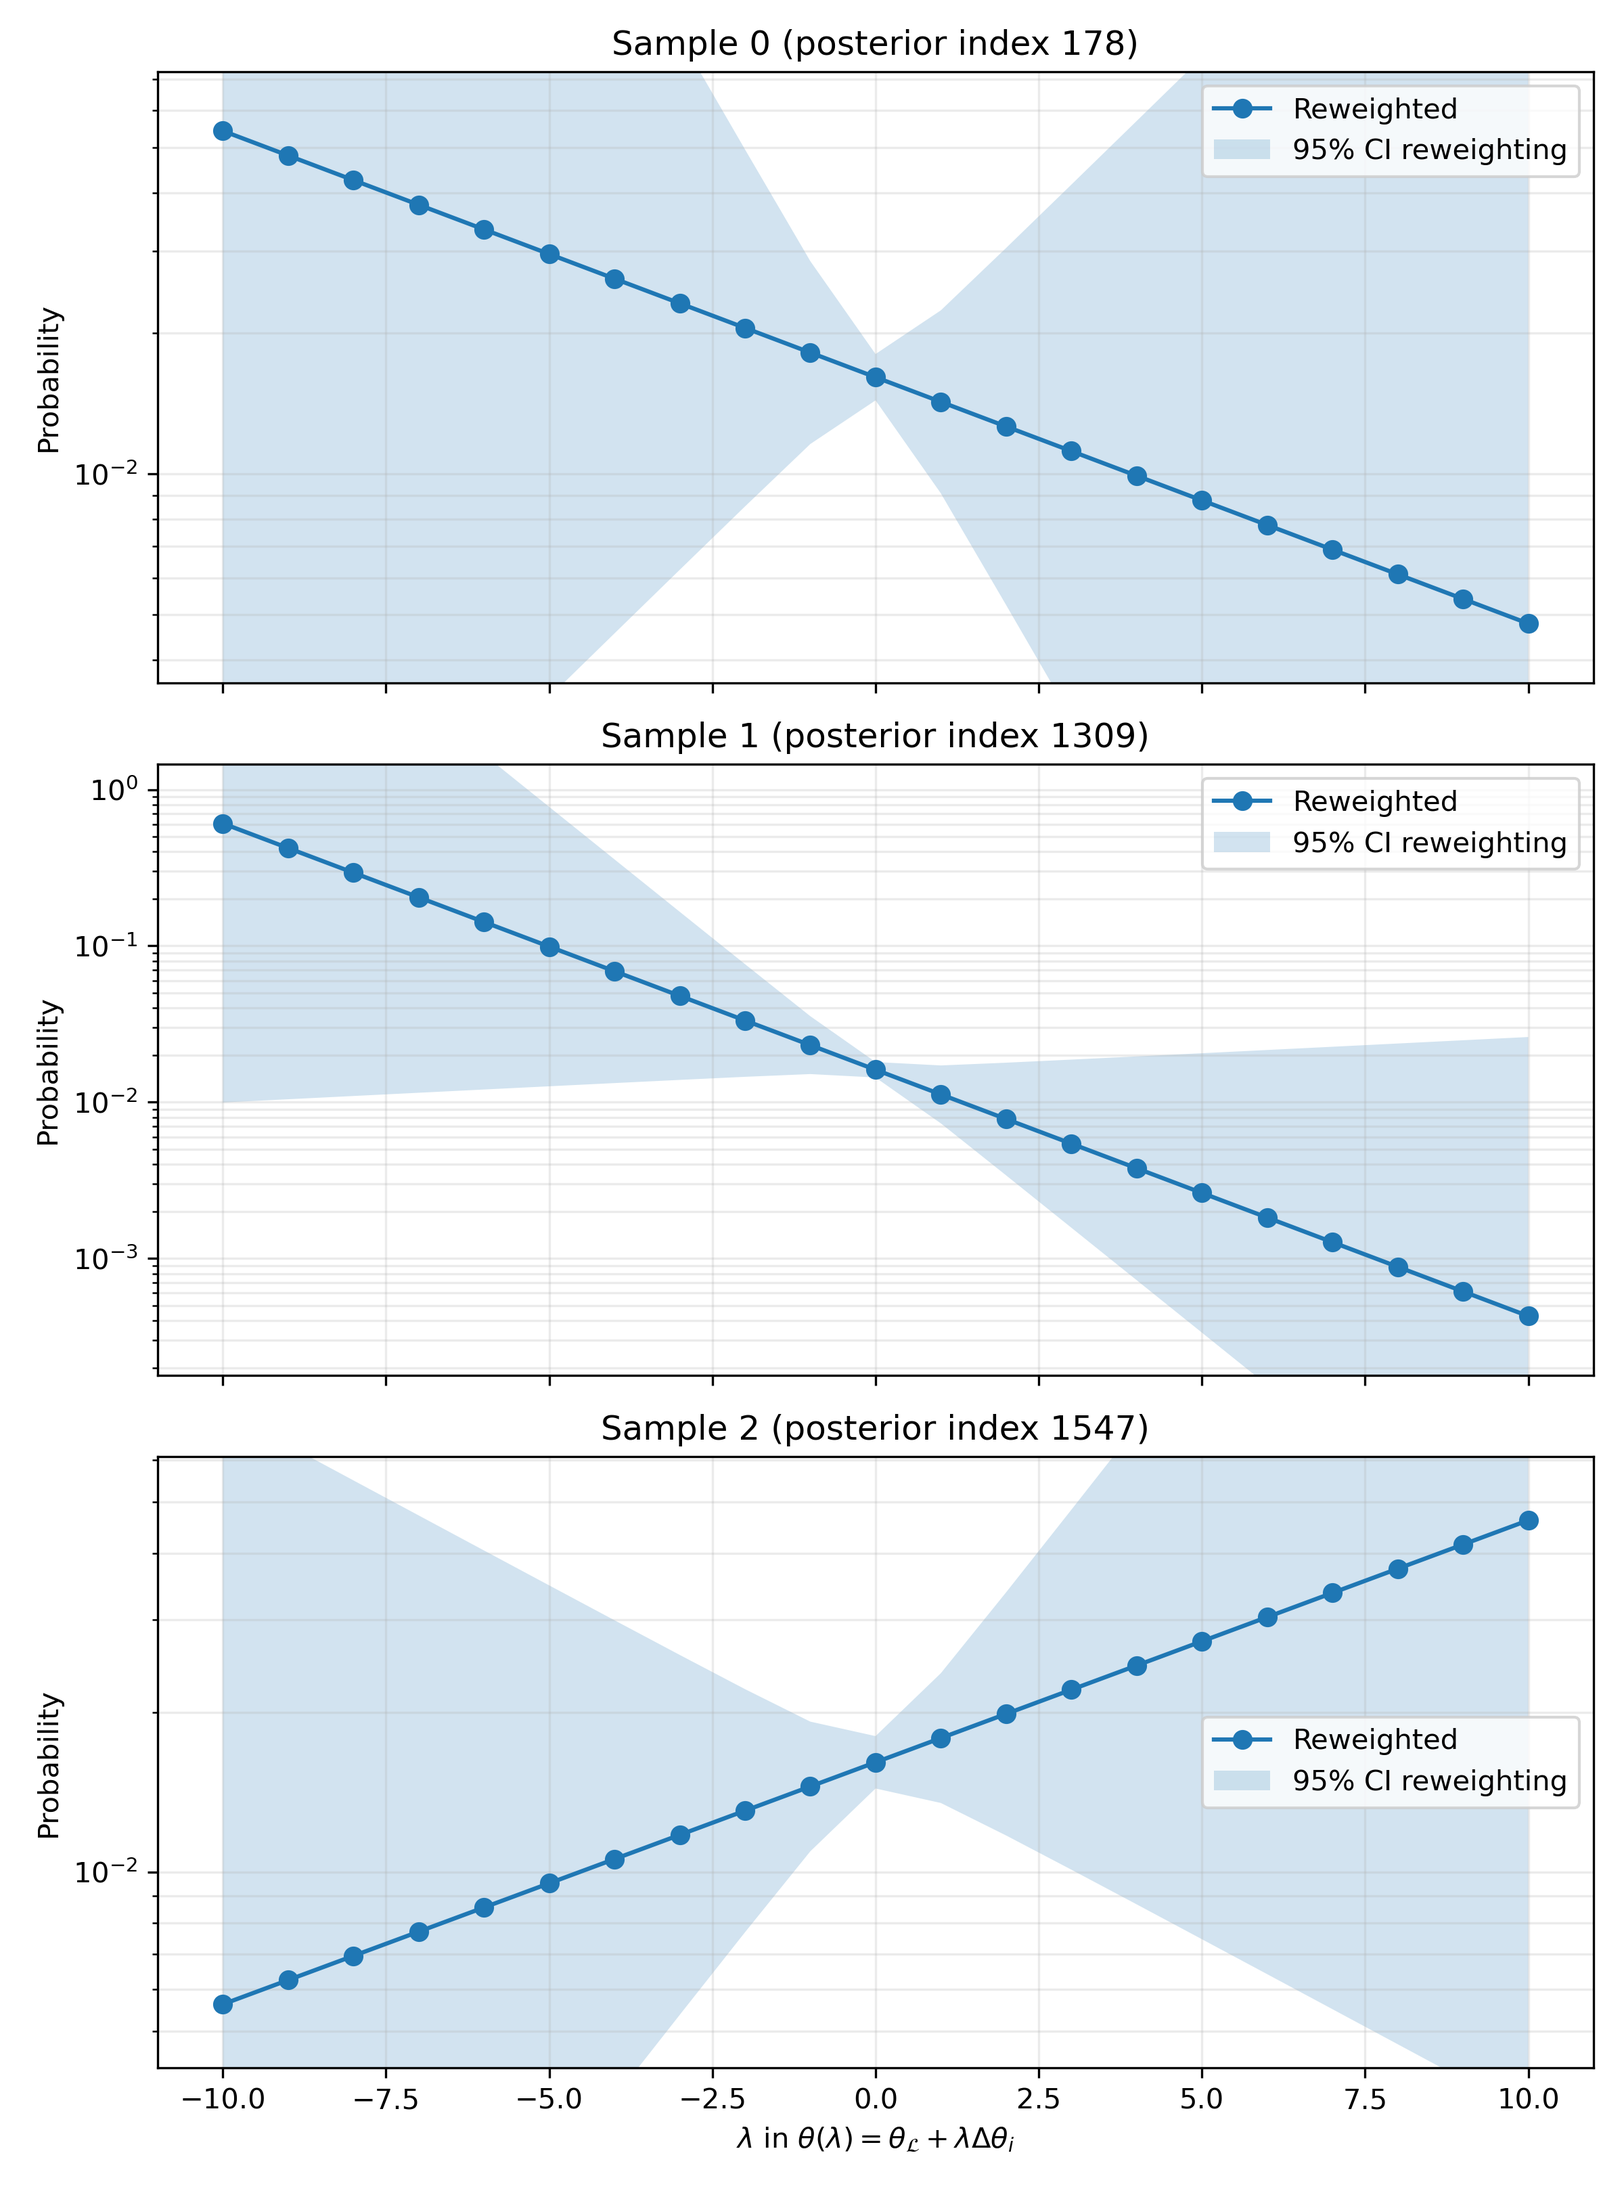
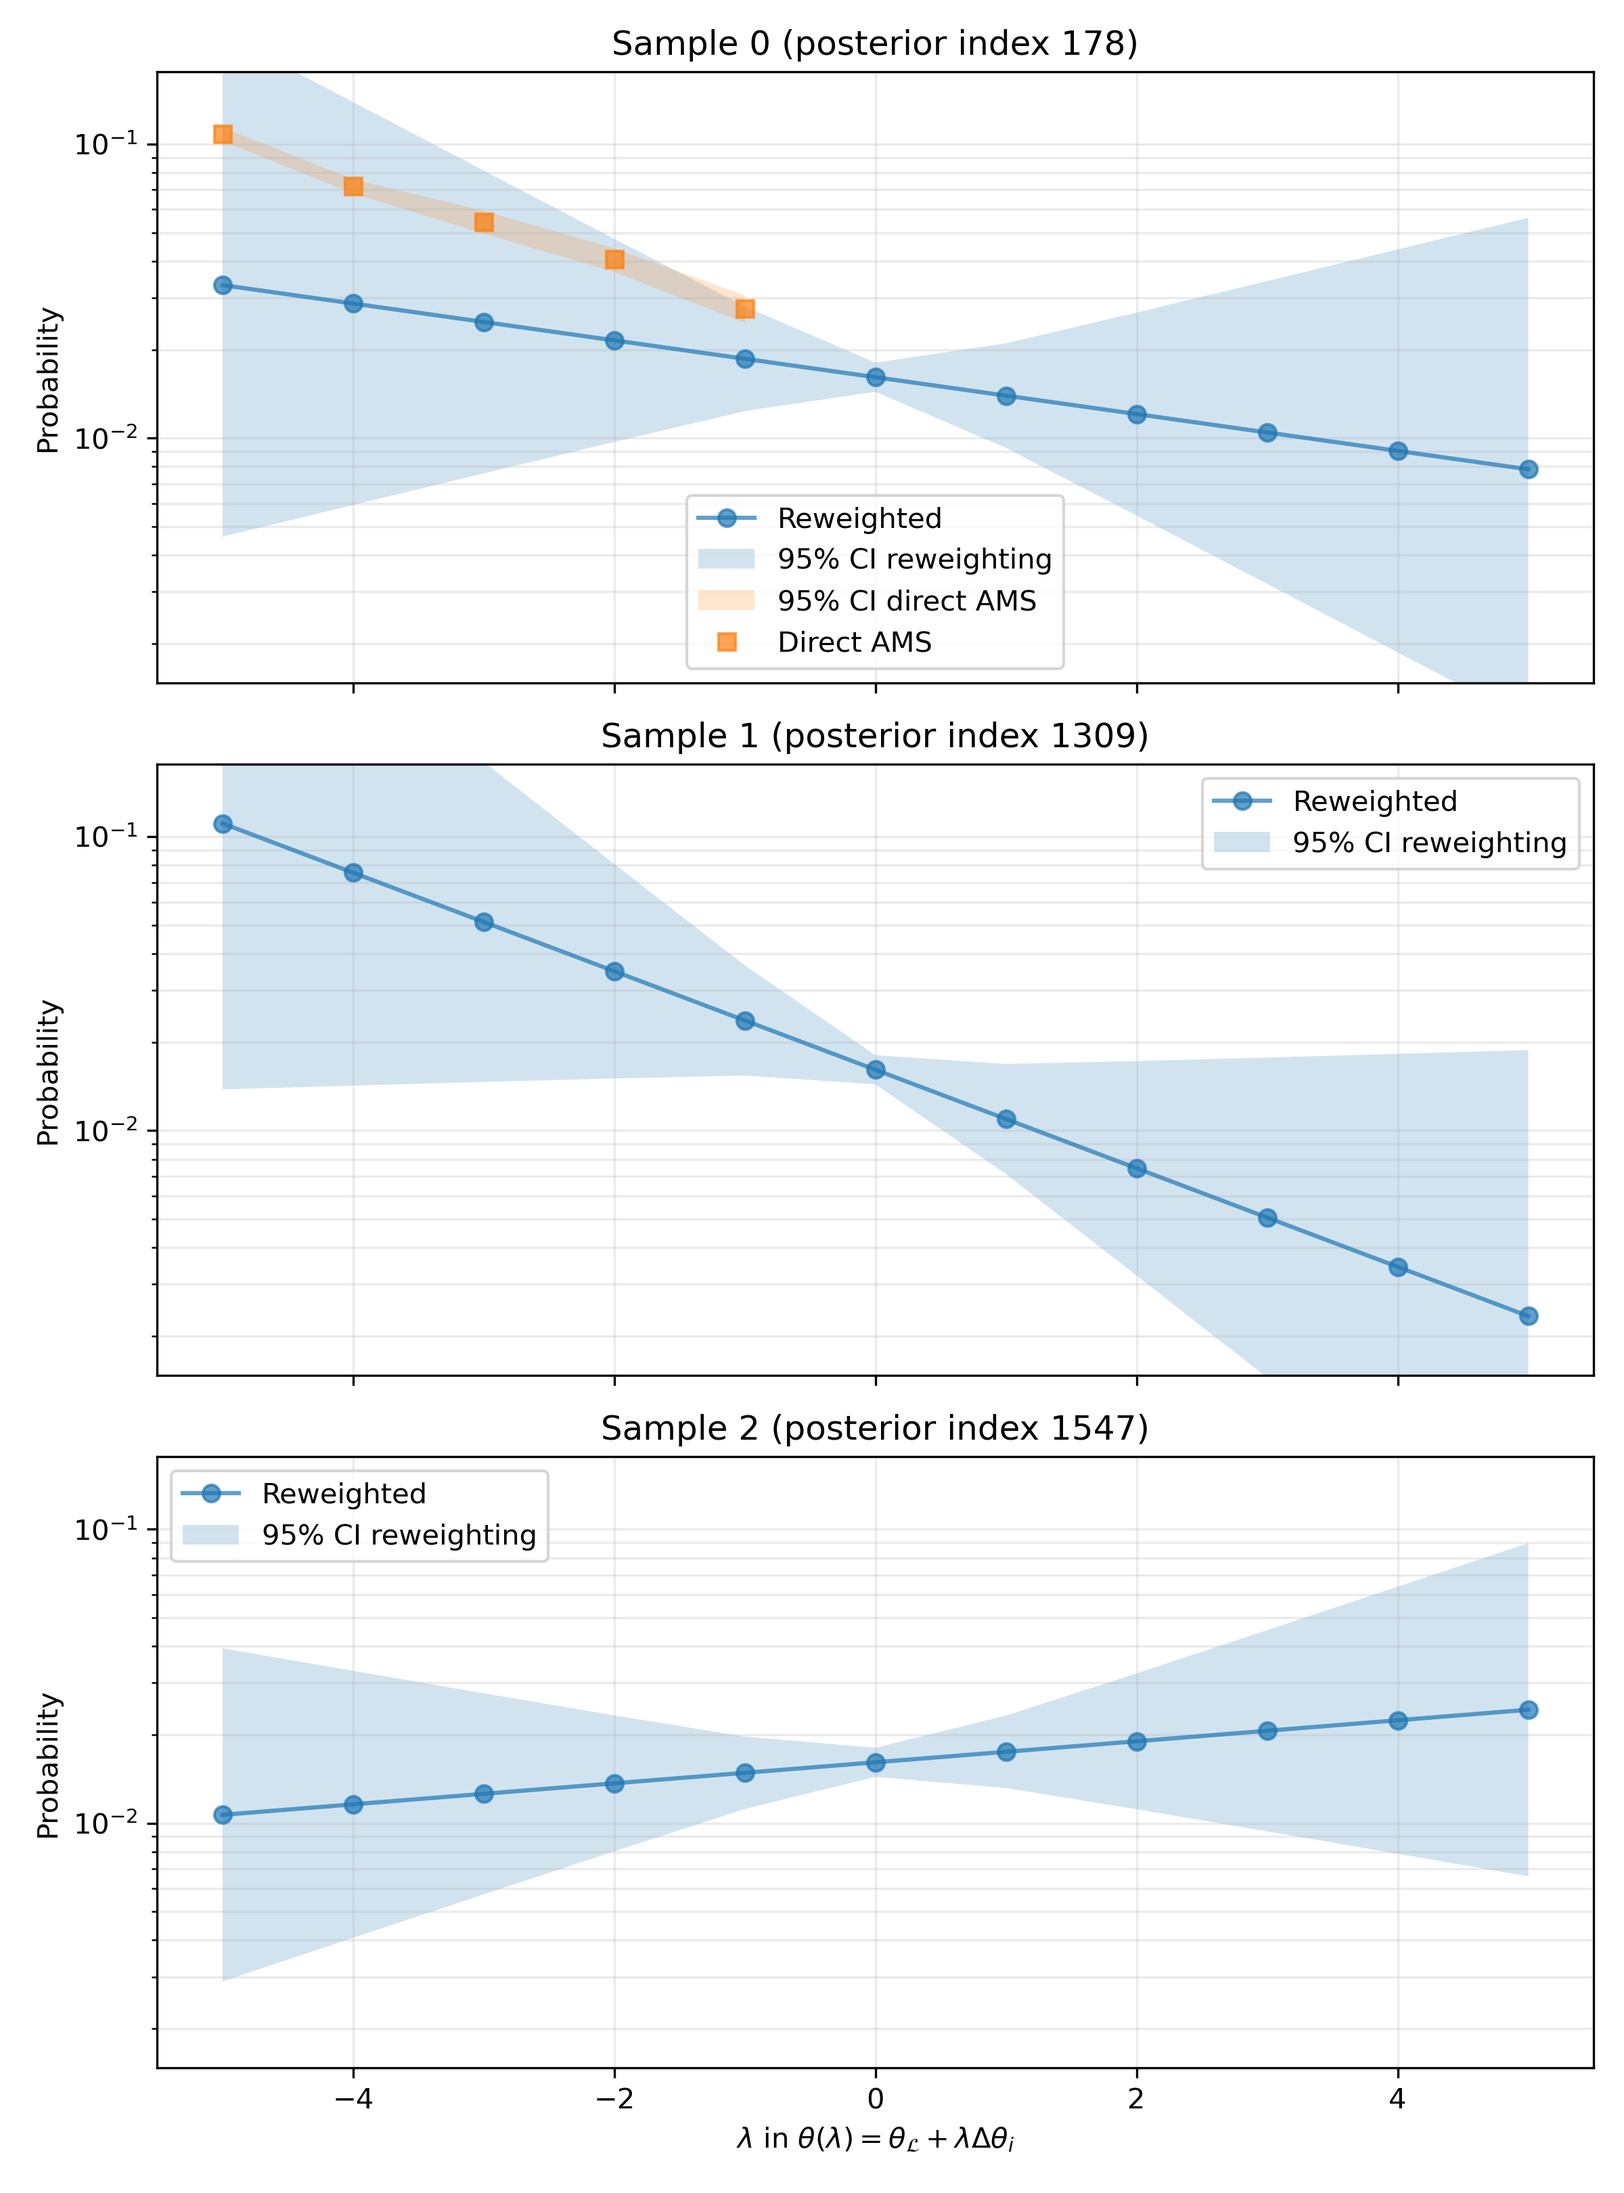
.

diff --git a/scripts/AMS_butane/theta_lambda_mp0a/create_lambda_folders.py b/scripts/AMS_butane/theta_lambda_mp0a/create_lambda_folders.py
@@ -12,11 +12,10 @@ import numpy as np
 ROOT = Path(__file__).resolve().parent
 BASE_RUN = ROOT.parent / "ams_runs_mp0a_500"
 POSTERIOR_PATH = ROOT.parent / "ams_runs_mp0a_300/pops/binary_data/posterior_samples_mp0a.npy"
-THETA_L_PATH = ROOT.parent / "ams_runs_mp0a_300/pops/binary_data/w_corrector_mp0a.npy"
 RESULTS_DIR = ROOT / "results"
 N_AMS = 70
 DEFAULT_N_SAMPLES = 3
-LAMBDAS = np.arange(-10, 11, dtype=int)
+LAMBDAS = np.arange(-5, 6, dtype=int)
 
 
 def lambda_name(value):
@@ -47,7 +46,7 @@ def make_run_template():
         "posterior_samples = np.load(\n"
         "    '../../../../ams_runs_mp0a_300/pops/binary_data/posterior_samples_mp0a.npy'\n"
         ")\n"
-        "theta_l = np.load('../../../../ams_runs_mp0a_300/pops/binary_data/w_corrector_mp0a.npy')\n"
+        "theta_l = np.zeros(posterior_samples.shape[0], dtype=posterior_samples.dtype)\n"
         "delta_theta = posterior_samples[:, theta_index] - theta_l\n"
         "theta = theta_l + lambda_value * delta_theta\n"
         "calc = MACELinear(model_path=mace_model_path, device=device, "
@@ -105,11 +104,96 @@ print(f"Prepared {{n_ams}} AMS directories for theta index {{theta_index}}, lamb
 '''
 
 
+def rebase_existing_runs_at_zero():
+    """Set existing theta-lambda folders to the zero-corrector reference."""
+    posterior = np.load(POSTERIOR_PATH)
+    indices_path = RESULTS_DIR / "theta_indices.npy"
+    if not indices_path.is_file():
+        raise SystemExit(f"Indices posterior introuvables: {indices_path}")
+    indices = np.load(indices_path)
+    if indices.ndim != 1 or len(indices) != DEFAULT_N_SAMPLES:
+        raise SystemExit(f"Il faut exactement {DEFAULT_N_SAMPLES} indices dans {indices_path}.")
+    if np.any(indices < 0) or np.any(indices >= posterior.shape[1]):
+        raise SystemExit("Un theta_index est hors limites pour le posterior.")
+
+    theta_l = np.zeros(posterior.shape[0], dtype=posterior.dtype)
+    directions = posterior[:, indices].T
+    np.save(RESULTS_DIR / "theta_l.npy", theta_l)
+    np.save(RESULTS_DIR / "directions.npy", directions)
+
+    lambdas_path = RESULTS_DIR / "lambdas.npy"
+    old_lambdas = np.load(lambdas_path) if lambdas_path.exists() else LAMBDAS
+    keep_lambda = np.isin(old_lambdas, LAMBDAS)
+    if not np.all(np.isin(LAMBDAS, old_lambdas)):
+        raise SystemExit(f"Impossible de retrouver toutes les valeurs {LAMBDAS} dans {old_lambdas}.")
+    for filename in ("probs.npy", "available.npy"):
+        array_path = RESULTS_DIR / filename
+        if not array_path.exists():
+            continue
+        values = np.load(array_path)
+        if values.ndim < 2 or values.shape[1] != len(old_lambdas):
+            raise SystemExit(
+                f"Forme inattendue pour {array_path}: {values.shape}; "
+                f"l'axe lambda devrait avoir {len(old_lambdas)} valeurs."
+            )
+        np.save(array_path, values[:, keep_lambda, ...])
+    np.save(lambdas_path, LAMBDAS)
+
+    run_files = list(ROOT.glob("sample_*/lambda_*/run_ams.py"))
+    run_files.extend(ROOT.glob("sample_*/lambda_*/ams_*/run_ams.py"))
+    for path in run_files:
+        text = path.read_text()
+        text = text.replace(
+            "../../../ams_runs_mp0a_", "../../../../ams_runs_mp0a_"
+        ).replace("../../../models/", "../../../../models/")
+        text = re.sub(
+            r"(?m)^\s*theta_l\s*=\s*np\.load\(.*w_corrector_mp0a\.npy[\"']\)\s*$",
+            "theta_l = np.zeros(posterior_samples.shape[0], dtype=posterior_samples.dtype)",
+            text,
+        )
+        text = re.sub(
+            r"(?m)^\s*theta_l = np\.zeros\(posterior_samples\.shape\[0\], dtype=posterior_samples\.dtype\)\s*$",
+            "theta_l = np.zeros(posterior_samples.shape[0], dtype=posterior_samples.dtype)",
+            text,
+        )
+        path.write_text(text)
+
+    make_files = list(ROOT.glob("sample_*/lambda_*/make_input_files.py"))
+    for path in make_files:
+        text = path.read_text()
+        text = text.replace(
+            "../../../ams_runs_mp0a_", "../../../../ams_runs_mp0a_"
+        ).replace("../../../models/", "../../../../models/")
+        path.write_text(text)
+
+    for pattern in (
+        "sample_*/lambda_*/job_topaze",
+        "sample_*/lambda_*/run_all_topaze",
+        "sample_*/lambda_*/ams_*/job_topaze",
+    ):
+        for path in ROOT.glob(pattern):
+            text = path.read_text().replace("#MSUB -q a100", "#MSUB -q milan", 1)
+            path.write_text(text)
+
+    print(f"Reference zero appliquee aux {len(run_files)} scripts run_ams.py.")
+    print(f"Directions recalculees pour les indices {', '.join(map(str, indices))}.")
+    print(f"Plage lambda active: {LAMBDAS[0]} a {LAMBDAS[-1]} ({len(LAMBDAS)} valeurs).")
+
+
 def main():
     parser = argparse.ArgumentParser(description=__doc__)
     parser.add_argument("--seed", type=int, default=None, help="seed for selecting posterior samples")
     parser.add_argument("--n-samples", type=int, default=DEFAULT_N_SAMPLES)
+    parser.add_argument(
+        "--rebase-zero-reference",
+        action="store_true",
+        help="update existing folders/results so theta_L is exactly zero",
+    )
     args = parser.parse_args()
+
+    if args.rebase_zero_reference:
+        rebase_existing_runs_at_zero()
+        return
 
     if args.n_samples != DEFAULT_N_SAMPLES:
         raise SystemExit(f"Ce protocole requiert exactement {DEFAULT_N_SAMPLES} samples.")
@@ -118,9 +202,9 @@ def main():
 
     require_base_files()
     posterior = np.load(POSTERIOR_PATH)
-    theta_l = np.load(THETA_L_PATH)
-    if posterior.ndim != 2 or posterior.shape[0] != theta_l.size:
-        raise SystemExit("posterior_samples et w_corrector ont des dimensions incompatibles.")
+    if posterior.ndim != 2:
+        raise SystemExit("posterior_samples doit etre un tableau 2D.")
+    theta_l = np.zeros(posterior.shape[0], dtype=posterior.dtype)
 
     rng = np.random.default_rng(args.seed)
     indices = np.sort(rng.choice(posterior.shape[1], size=DEFAULT_N_SAMPLES, replace=False))
@@ -143,8 +227,14 @@ def main():
         for lambda_value in LAMBDAS:
             lambda_dir = sample_dir / lambda_name(int(lambda_value))
             lambda_dir.mkdir()
-            for name in ("job", "job_topaze", "run_all_topaze", "compute_probs.py"):
+            for name in ("job", "compute_probs.py"):
                 shutil.copy2(BASE_RUN / name, lambda_dir / name)
+            job_topaze = (BASE_RUN / "job_topaze").read_text()
+            job_topaze = job_topaze.replace("#MSUB -q a100", "#MSUB -q milan", 1)
+            (lambda_dir / "job_topaze").write_text(job_topaze)
+            run_all = (BASE_RUN / "run_all_topaze").read_text()
+            run_all = run_all.replace("#MSUB -q a100", "#MSUB -q milan", 1)
+            (lambda_dir / "run_all_topaze").write_text(run_all)
             (lambda_dir / "run_ams.py").write_text(run_template)
             (lambda_dir / "make_input_files.py").write_text(
                 make_input_script(int(theta_index), int(lambda_value))

diff --git a/scripts/AMS_butane/theta_lambda_mp0a/plot_samples.py b/scripts/AMS_butane/theta_lambda_mp0a/plot_samples.py
@@ -20,10 +20,16 @@ REWEIGHTING_DIR = ROOT.parent / "ams_runs_mp0a_500/reweighting/aggregated_result
 OUTPUT_PATH = ROOT / "reweighting_vs_lambda.png"
 
 
-def sem(values, axis):
-    n = np.sum(np.isfinite(values), axis=axis)
-    std = np.nanstd(values, axis=axis, ddof=1)
-    return np.divide(std, np.sqrt(n), out=np.zeros_like(std), where=n > 1)
+def mean_and_sem_by_lambda(values):
+    means = np.full(values.shape[0], np.nan)
+    errors = np.zeros(values.shape[0])
+    for index, row in enumerate(values):
+        finite = row[np.isfinite(row)]
+        if finite.size:
+            means[index] = np.mean(finite)
+        if finite.size > 1:
+            errors[index] = np.std(finite, ddof=1) / np.sqrt(finite.size)
+    return means, errors
 
 
 def main():
@@ -68,10 +74,24 @@ def main():
         if direct.ndim != 3 or direct.shape[:2] != expected_shape:
             raise ValueError(f"probs.npy doit commencer par la forme {expected_shape}.")
 
-    fig, axes = plt.subplots(len(theta_indices), 1, figsize=(8, 3.6 * len(theta_indices)), sharex=True)
+    fig, axes = plt.subplots(
+        len(theta_indices),
+        1,
+        figsize=(8, 3.6 * len(theta_indices)),
+        sharex=True,
+        sharey=True,
+    )
     axes = np.atleast_1d(axes)
+    all_central_curves = []
     for sample_id, ax in enumerate(axes):
-        ax.plot(lambdas, reweighted[sample_id], "o-", label="Reweighted", zorder=2)
+        ax.plot(
+            lambdas,
+            reweighted[sample_id],
+            "o-",
+            alpha=0.7,
+            label="Reweighted",
+            zorder=2,
+        )
         ax.fill_between(
             lambdas,
             reweighted_lower[sample_id],
@@ -82,17 +102,30 @@ def main():
 
         central_curves = [reweighted[sample_id]]
         if direct is not None:
-            direct_mean = np.nanmean(direct[sample_id], axis=1)
-            direct_sem = sem(direct[sample_id], axis=1)
+            direct_mean, direct_sem = mean_and_sem_by_lambda(direct[sample_id])
             available = np.isfinite(direct_mean)
             if np.any(available):
                 central_curves.append(direct_mean[available])
                 direct_ci = 1.96 * direct_sem[available]
                 # Keep the lower end positive for the logarithmic y-axis.
                 direct_ci = np.minimum(direct_ci, 0.999 * direct_mean[available])
-                ax.errorbar(
-                    lambdas[available], direct_mean[available], yerr=direct_ci,
-                    fmt="s", capsize=3, label="Direct AMS", zorder=3,
+                direct_lower = direct_mean[available] - direct_ci
+                direct_upper = direct_mean[available] + direct_ci
+                ax.fill_between(
+                    lambdas[available],
+                    direct_lower,
+                    direct_upper,
+                    alpha=0.2,
+                    label="95% CI direct AMS",
+                    zorder=1,
+                )
+                ax.plot(
+                    lambdas[available],
+                    direct_mean[available],
+                    "s",
+                    alpha=0.7,
+                    label="Direct AMS",
+                    zorder=3,
                 )
                 mae_p = np.mean(np.abs(direct_mean[available] - reweighted[sample_id, available]))
                 mae_log = np.mean(np.abs(
@@ -103,19 +136,13 @@ def main():
                     f"MAE p={mae_p:.4e}, MAE log10 p={mae_log:.4f} decades"
                 )
 
-        # Set each panel's log limits from central curve values only. The CI
-        # ribbon remains visible but cannot stretch the y-axis to its extremes.
-        central_positive = np.concatenate(central_curves)
-        central_positive = central_positive[np.isfinite(central_positive) & (central_positive > 0)]
-        log_min = np.log10(central_positive.min())
-        log_max = np.log10(central_positive.max())
-        log_span = log_max - log_min
-        margin = max(0.12, 0.12 * log_span)
-        ax.set_ylim(10 ** (log_min - margin), 10 ** (log_max + margin))
+        # Determine one common log-scale range from all central curves. The
+        # confidence ribbons remain visible but do not set the shared limits.
+        all_central_curves.extend(central_curves)
 
         print(
-            f"sample_{sample_id}: SE(log p_rew) a lambda=+/-10 = "
-            f"{sem_log_reweighted[sample_id, 0]:.3f}/"
+            f"sample_{sample_id}: SE(log p_rew) a lambda={lambdas[0]:.0f}/"
+            f"{lambdas[-1]:.0f} = {sem_log_reweighted[sample_id, 0]:.3f}/"
             f"{sem_log_reweighted[sample_id, -1]:.3f}; "
             "facteur multiplicatif 95% = "
             f"x{np.exp(1.96 * sem_log_reweighted[sample_id, -1]):.1f}"
@@ -126,6 +153,15 @@ def main():
         ax.set_title(f"Sample {sample_id} (posterior index {theta_indices[sample_id]})")
         ax.grid(alpha=0.25, which="both")
         ax.legend()
+
+    central_positive = np.concatenate(all_central_curves)
+    central_positive = central_positive[
+        np.isfinite(central_positive) & (central_positive > 0)
+    ]
+    log_min = np.log10(central_positive.min())
+    log_max = np.log10(central_positive.max())
+    margin = max(0.12, 0.12 * (log_max - log_min))
+    axes[0].set_ylim(10 ** (log_min - margin), 10 ** (log_max + margin))
 
     axes[-1].set_xlabel(r"$\lambda$ in $\theta(\lambda)=\theta_\mathcal{{L}}+\lambda\Delta\theta_i$")
     fig.tight_layout()

diff --git a/scripts/AMS_butane/theta_lambda_mp0a/get_results.py b/scripts/AMS_butane/theta_lambda_mp0a/get_results.py
@@ -39,7 +39,9 @@ def main():
             params = json.loads(params_path.read_text())
             lambda_value = int(params["lambda"])
             if lambda_value not in lookup:
-                raise ValueError(f"Lambda inattendu dans {params_path}: {lambda_value}")
+                # Older experiments may still have lambda folders outside the
+                # active range; the Topaze submitter intentionally skips them.
+                continue
             collected[sample_id, lookup[lambda_value]] = numeric_values(results_path)
 
     if not collected:
